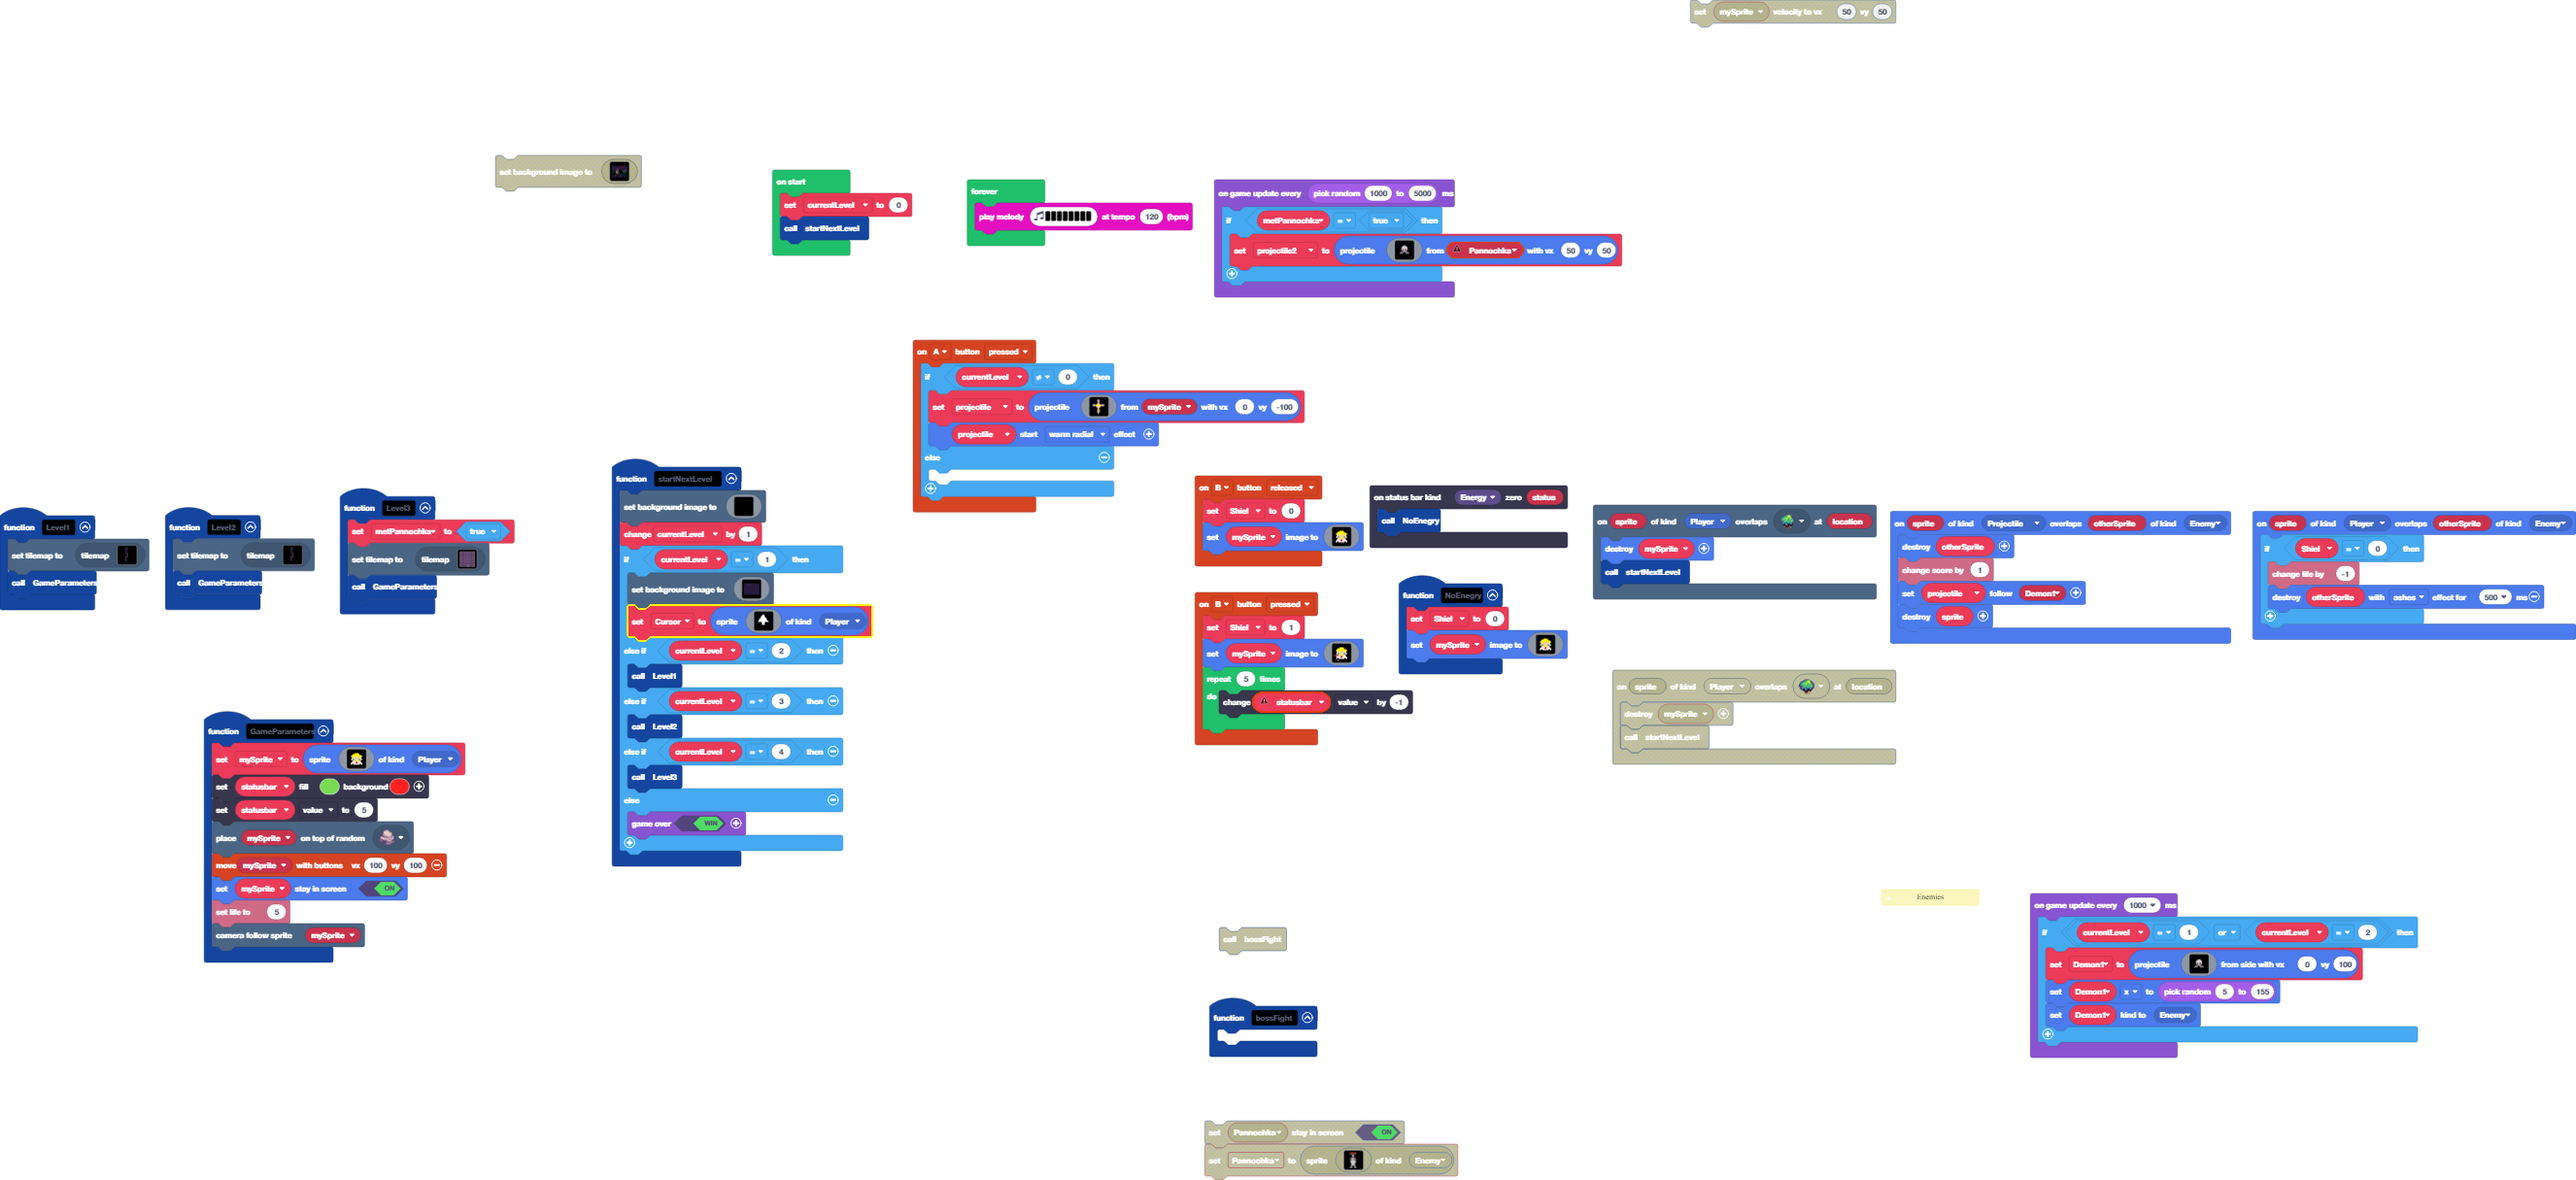
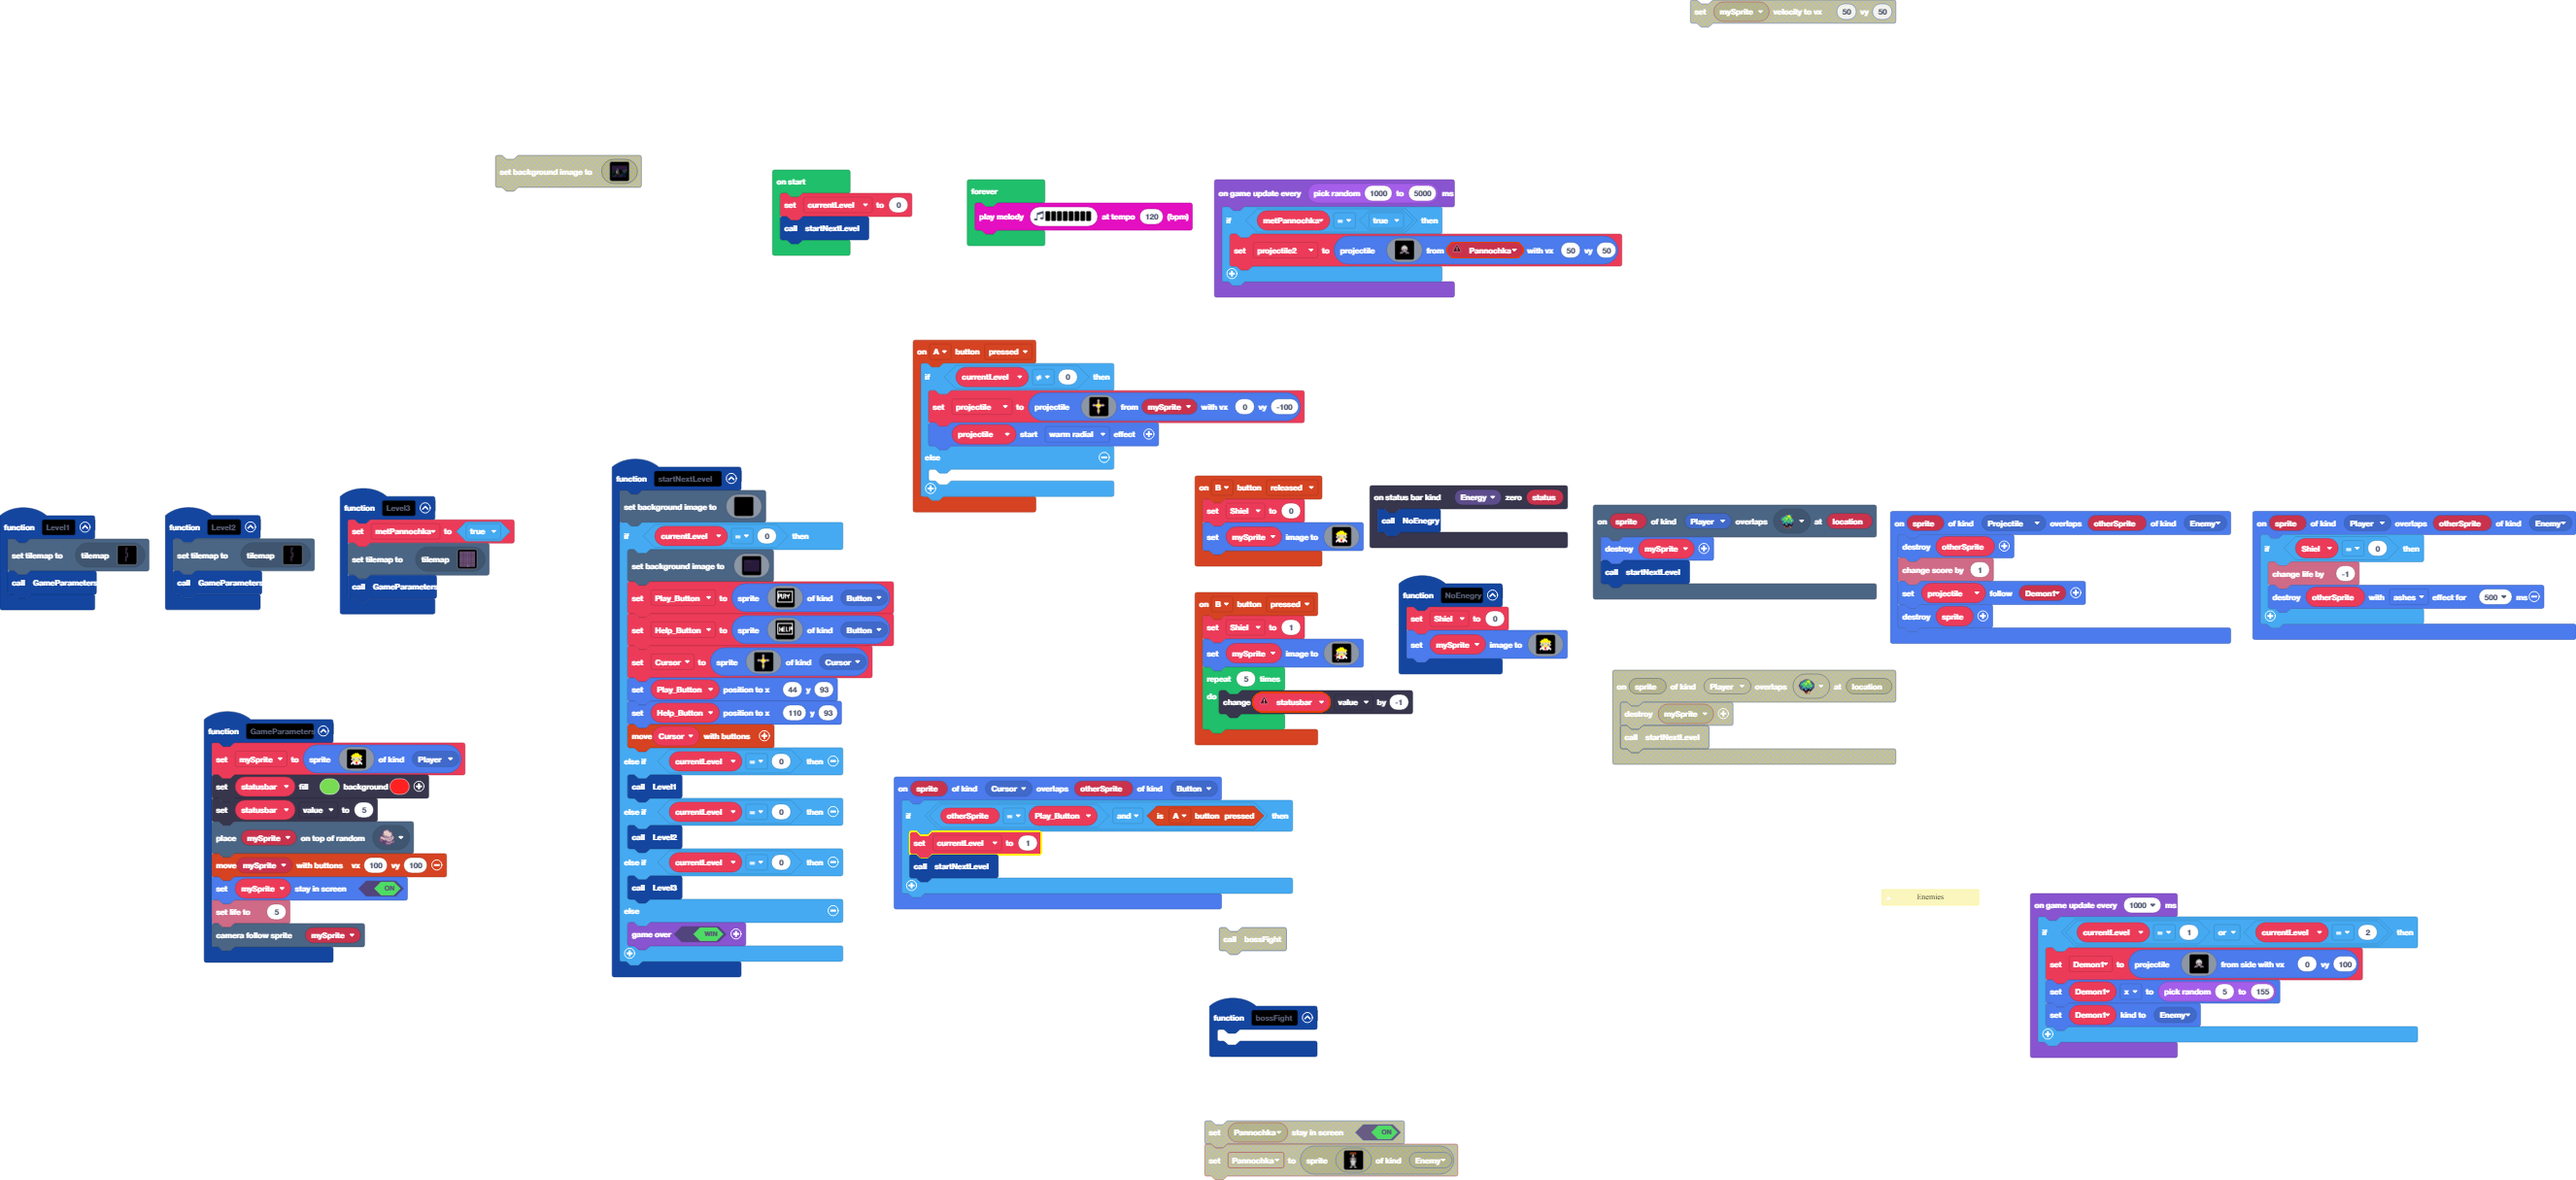
Working cursor

Changed region(s): [[0.2164, 0.4263, 0.5256, 0.8527]]

diff --git a/main.ts b/main.ts
@@ -1,3 +1,7 @@
+namespace SpriteKind {
+    export const Button = SpriteKind.create()
+    export const Cursor = SpriteKind.create()
+}
 /**
  * Enemies
  */
@@ -62,6 +66,12 @@ function Level3 () {
     tiles.setCurrentTilemap(tilemap`level3`)
     GameParameters()
 }
+sprites.onOverlap(SpriteKind.Cursor, SpriteKind.Button, function (sprite, otherSprite) {
+    if (otherSprite == Play_Button && controller.A.isPressed()) {
+        currentLevel = 1
+        startNextLevel()
+    }
+})
 function Level1 () {
     tiles.setCurrentTilemap(tilemap`level1`)
     GameParameters()
@@ -189,8 +199,7 @@ function startNextLevel () {
         ffffffffffffffffffffffffffffffffffffffffffffffffffffffffffffffffffffffffffffffffffffffffffffffffffffffffffffffffffffffffffffffffffffffffffffffffffffffffffffffff
         ffffffffffffffffffffffffffffffffffffffffffffffffffffffffffffffffffffffffffffffffffffffffffffffffffffffffffffffffffffffffffffffffffffffffffffffffffffffffffffffff
         `)
-    currentLevel += 1
-    if (currentLevel == 1) {
+    if (currentLevel == 0) {
         scene.setBackgroundImage(img`
             cccccccccccccccccccccccccccccccccccccccccccccccccccccccccccccccccccccccccccccccccccccccccccccccccccccccccccccccccccccccccccccccccccccccccccccccccccccccccccccccc
             cccccccccccccccccccccccccccccccccccccccccccccccccccccccccccccccccccccccccccccccccccccccccccccccccccccccccccccccccccccccccccccccccccccccccccccccccccccccccccccccc
@@ -313,29 +322,68 @@ function startNextLevel () {
             cccccccccccccccccccccccccccccccccccccccccccccccccccccccccccccccccccccccccccccccccccccccccccccccccccccccccccccccccccccccccccccccccccccccccccccccccccccccccccccccc
             cccccccccccccccccccccccccccccccccccccccccccccccccccccccccccccccccccccccccccccccccccccccccccccccccccccccccccccccccccccccccccccccccccccccccccccccccccccccccccccccc
             `)
+        Play_Button = sprites.create(img`
+            . . . . . . . . . . . . . . . . 
+            1 1 1 1 1 1 1 1 1 1 1 1 1 1 1 1 
+            1 . . . . . . . . . . . . . . 1 
+            1 . . . . . . . . . . . . . . 1 
+            1 1 1 1 1 . 1 1 1 . . . 1 . . 1 
+            1 1 . 1 1 . 1 . 1 1 1 1 1 . . 1 
+            1 1 1 1 1 . 1 1 1 . 1 1 . . . 1 
+            1 1 . . 1 . 1 . 1 . . 1 . . . 1 
+            1 1 . . 1 1 1 . 1 . . 1 . . . 1 
+            1 . . . . . . . . . . . . . . 1 
+            1 . . . . . . . . . . . . . . 1 
+            1 . . . . . . . . . . . . . . 1 
+            1 1 1 1 1 1 1 1 1 1 1 1 1 1 1 1 
+            . . . . . . . . . . . . . . . . 
+            . . . . . . . . . . . . . . . . 
+            . . . . . . . . . . . . . . . . 
+            `, SpriteKind.Button)
+        Help_Button = sprites.create(img`
+            . . . . . . . . . . . . . . . . 
+            1 1 1 1 1 1 1 1 1 1 1 1 1 1 1 1 
+            1 . . . . . . . . . . . . . . 1 
+            1 . . . . . . . . . . . . . . 1 
+            1 . . . . . . . . . . . . . . 1 
+            1 . 1 . . 1 1 1 . 1 . . 1 1 1 1 
+            1 . 1 . 1 1 . . . 1 . . 1 . 1 1 
+            1 . 1 1 1 1 1 1 . 1 . . 1 1 1 1 
+            1 . 1 . 1 1 . . . 1 . . 1 . . 1 
+            1 . 1 . 1 1 1 1 . 1 1 . 1 . . 1 
+            1 . . . . . . . . . . . . . . 1 
+            1 . . . . . . . . . . . . . . 1 
+            1 1 1 1 1 1 1 1 1 1 1 1 1 1 1 1 
+            . . . . . . . . . . . . . . . . 
+            . . . . . . . . . . . . . . . . 
+            . . . . . . . . . . . . . . . . 
+            `, SpriteKind.Button)
         Cursor = sprites.create(img`
-            . . . . . . . . . . . . . . . . 
-            . . . . . . . 1 . . . . . . . . 
-            . . . . . . 1 1 1 . . . . . . . 
-            . . . . . 1 1 1 1 . . . . . . . 
-            . . . . . 1 1 1 1 1 . . . . . . 
-            . . . . 1 1 1 1 1 1 1 . . . . . 
-            . . . 1 1 1 1 1 1 1 1 . . . . . 
-            . . . 1 1 1 1 1 1 1 1 1 . . . . 
-            . . 1 1 1 1 1 1 1 1 1 1 1 . . . 
-            . . . . . . 1 1 1 . . . . . . . 
-            . . . . . . 1 1 1 . . . . . . . 
-            . . . . . . 1 1 1 . . . . . . . 
-            . . . . . . . . . . . . . . . . 
-            . . . . . . . . . . . . . . . . 
-            . . . . . . . . . . . . . . . . 
-            . . . . . . . . . . . . . . . . 
-            `, SpriteKind.Player)
-    } else if (currentLevel == 2) {
+            . . . . . . . b . . . . . . . . 
+            . . . . . . b d b . . . . . . . 
+            . . . . . . c d c . . . . . . . 
+            . . . . . . c 5 c . . . . . . . 
+            . . . . . . c 5 c . . . . . . . 
+            . . b c c c d 5 d c c c b . . . 
+            . b d d 5 5 5 5 5 5 5 d d b . . 
+            . . b c c d d 5 d d c c b . . . 
+            . . . . . c d 5 d c . . . . . . 
+            . . . . . . c 5 c . . . . . . . 
+            . . . . . . c 5 c . . . . . . . 
+            . . . . . . b 5 b . . . . . . . 
+            . . . . . . b 5 b . . . . . . . 
+            . . . . . . b d b . . . . . . . 
+            . . . . . . . d . . . . . . . . 
+            . . . . . . . b . . . . . . . . 
+            `, SpriteKind.Cursor)
+        Play_Button.setPosition(44, 93)
+        Help_Button.setPosition(110, 93)
+        controller.moveSprite(Cursor)
+    } else if (currentLevel == 0) {
         Level1()
-    } else if (currentLevel == 3) {
+    } else if (currentLevel == 0) {
         Level2()
-    } else if (currentLevel == 4) {
+    } else if (currentLevel == 0) {
         Level3()
     } else {
         game.over(true)
@@ -432,6 +480,8 @@ function NoEnegry () {
 let projectile2: Sprite = null
 let Demon1: Sprite = null
 let Cursor: Sprite = null
+let Help_Button: Sprite = null
+let Play_Button: Sprite = null
 let metPannochka = false
 let projectile: Sprite = null
 let statusbar: StatusBarSprite = null
